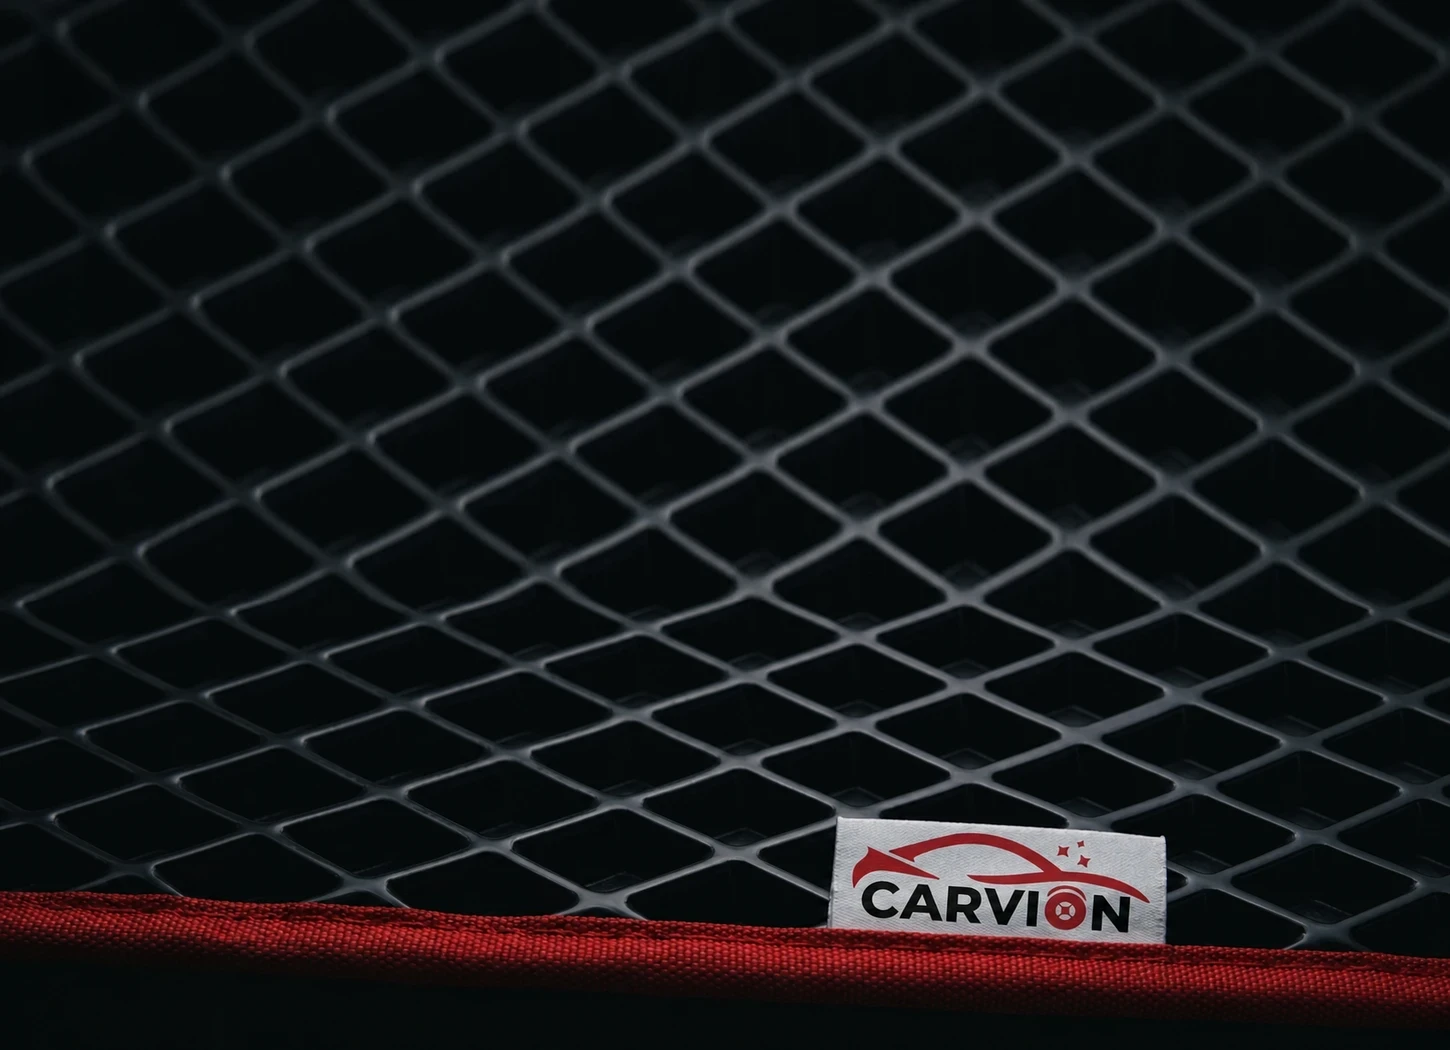
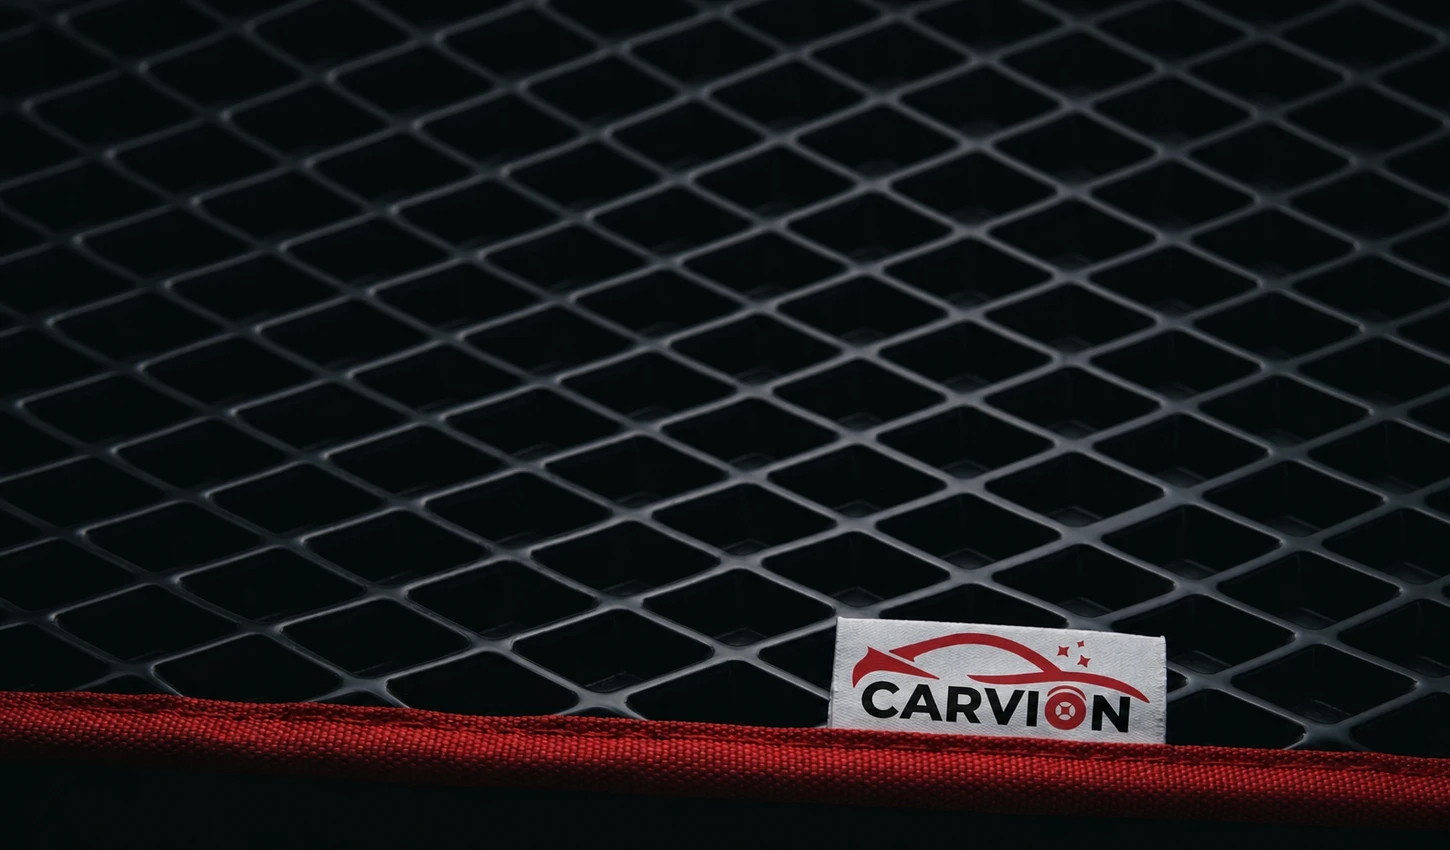
Update from Shopify for theme evamats_eu/dev
Committed from shop: Carvion

diff --git a/assets/section-evamats-collection-banner.css b/assets/section-evamats-collection-banner.css
@@ -296,21 +296,7 @@
   }
 
   .evamats-collection-banner__mobile-texture-fill {
-    position: absolute;
-    z-index: 0;
-    top: -4px;
-    right: -4px;
-    left: -4px;
-    display: block;
-    height: 88px;
-    background-position: center top;
-    background-repeat: no-repeat;
-    background-size: 102% auto;
-    filter: blur(0.35px);
-    opacity: 0.18;
-    transform: scale(1.02);
-    -webkit-mask-image: linear-gradient(to bottom, #000 0%, rgba(0, 0, 0, 0.82) 52%, rgba(0, 0, 0, 0.34) 78%, transparent 100%);
-    mask-image: linear-gradient(to bottom, #000 0%, rgba(0, 0, 0, 0.82) 52%, rgba(0, 0, 0, 0.34) 78%, transparent 100%);
+    display: none;
   }
 
   .evamats-collection-banner__media picture {
@@ -321,14 +307,13 @@
 
   .evamats-collection-banner__media .evamats-collection-banner__image {
     position: absolute;
-    bottom: -9px;
-    left: 50%;
+    inset: 0;
     width: 100%;
     max-width: none;
-    height: auto;
-    object-fit: initial;
-    object-position: initial;
-    transform: translateX(-50%);
+    height: 100%;
+    object-fit: cover;
+    object-position: 60% center;
+    transform: none;
   }
 
   .evamats-collection-banner__overlay {
